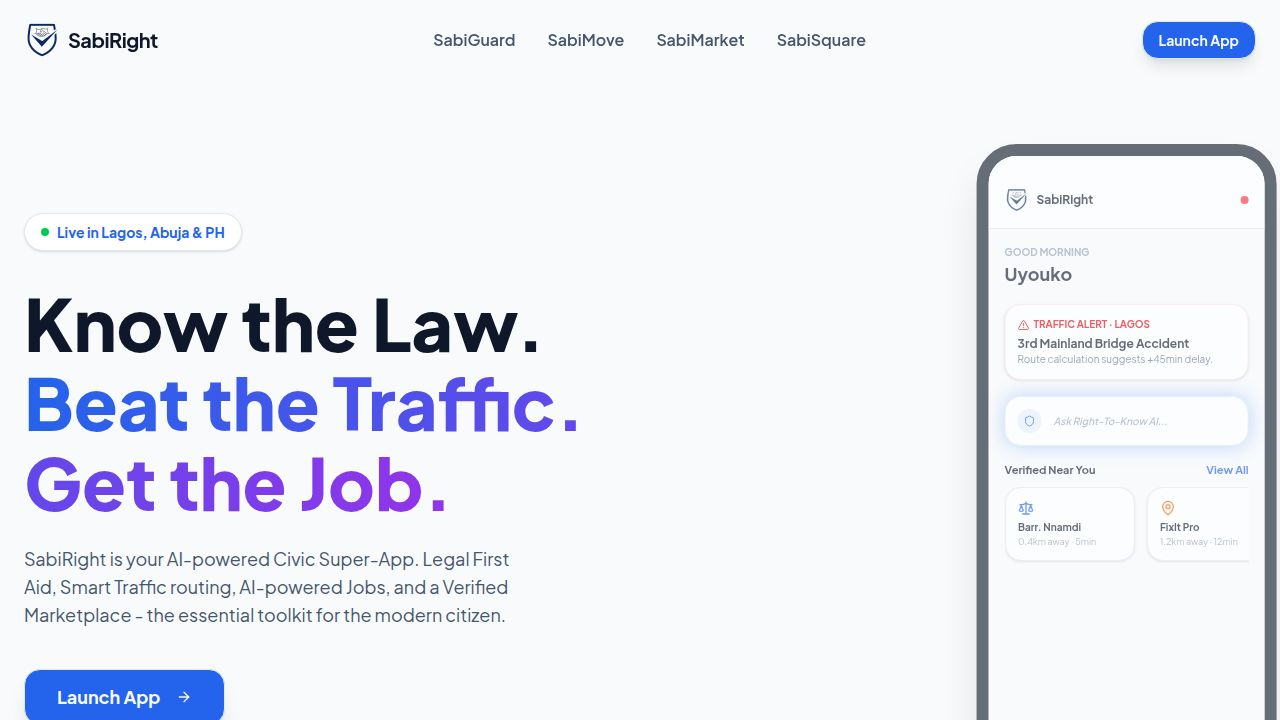
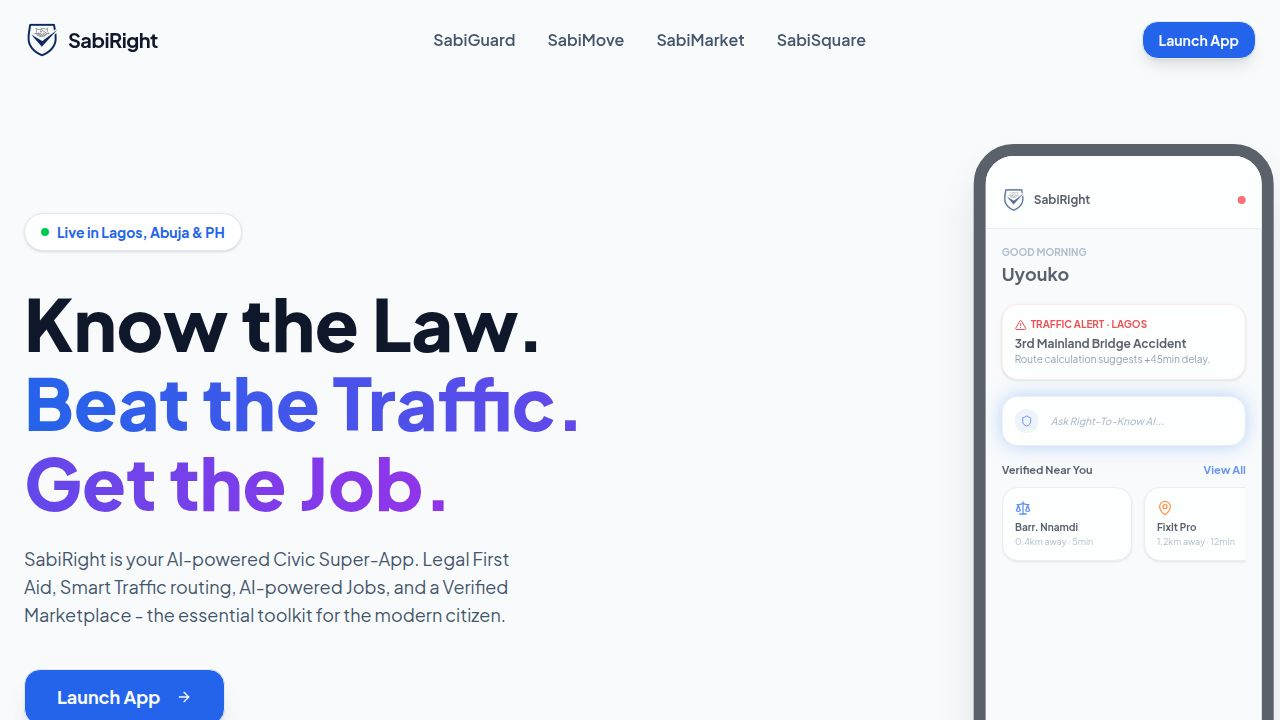
Improve AI service error handling and logging for better debugging
Enhance server-side routes for AI services by adding detailed console logging for API key retrieval, improving error response payloads to include Gemini API errors, and refining error handling for job search functionality.

Replit-Commit-Author: Agent
Replit-Commit-Session-Id: 5164c6ee-1e2a-4729-91ba-0cf92a8722cb
Replit-Commit-Checkpoint-Type: full_checkpoint
Replit-Commit-Event-Id: a360e592-01e6-412f-a6e2-f1a27d4d3148
Replit-Commit-Screenshot-Url: https://storage.googleapis.com/screenshot-production-us-central1/676fe46c-89a2-403b-a68c-b116a8b372ad/5164c6ee-1e2a-4729-91ba-0cf92a8722cb/E5poXvL
Replit-Helium-Checkpoint-Created: true

diff --git a/server/routes.ts b/server/routes.ts
@@ -626,6 +626,8 @@ export async function registerRoutes(
     const apiKeySetting = await storage.getAdminSetting('gemini_api_key');
     const apiKey = apiKeySetting?.value || process.env.GEMINI_API_KEY;
     
+    console.log('[AI Generate] API key found:', !!apiKey, 'from setting:', !!apiKeySetting?.value);
+    
     if (!apiKey) {
       return res.status(503).json({ error: 'AI service not configured. Please set up Gemini API key in admin settings.' });
     }
@@ -641,7 +643,9 @@ export async function registerRoutes(
       });
 
       if (!response.ok) {
-        return res.status(response.status).json({ error: 'AI service error' });
+        const errorBody = await response.text();
+        console.error('[AI Generate] Gemini error:', response.status, errorBody);
+        return res.status(response.status).json({ error: 'AI service error', details: errorBody });
       }
 
       const data = await response.json();
@@ -668,6 +672,8 @@ export async function registerRoutes(
 
     const apiKeySetting = await storage.getAdminSetting('gemini_api_key');
     const apiKey = apiKeySetting?.value || process.env.GEMINI_API_KEY;
+    
+    console.log('[AI Jobs] API key found:', !!apiKey, 'from setting:', !!apiKeySetting?.value);
     
     if (!apiKey) {
       return res.status(503).json({ error: 'AI service not configured' });
@@ -701,14 +707,19 @@ export async function registerRoutes(
       });
 
       if (!response.ok) {
-        return res.status(response.status).json({ error: 'AI service error' });
+        const errorBody = await response.text();
+        console.error('[AI Jobs] Gemini error:', response.status, errorBody);
+        return res.status(response.status).json({ error: 'AI service error', details: errorBody });
       }
 
       const data = await response.json();
       const text = data?.candidates?.[0]?.content?.parts?.[0]?.text || '';
       
+      console.log('[AI Jobs] Response received, length:', text.length);
+      
       const jsonMatch = text.match(/\[[\s\S]*\]/);
       if (!jsonMatch) {
+        console.error('[AI Jobs] Failed to parse JSON from response:', text.substring(0, 200));
         return res.status(500).json({ error: 'Failed to parse AI response' });
       }
 
@@ -729,7 +740,7 @@ export async function registerRoutes(
 
       res.json({ jobs: savedJobs, creditsUsed: 1 });
     } catch (err) {
-      console.error('AI job search error:', err);
+      console.error('[AI Jobs] Error:', err);
       res.status(500).json({ error: 'Job search failed' });
     }
   });